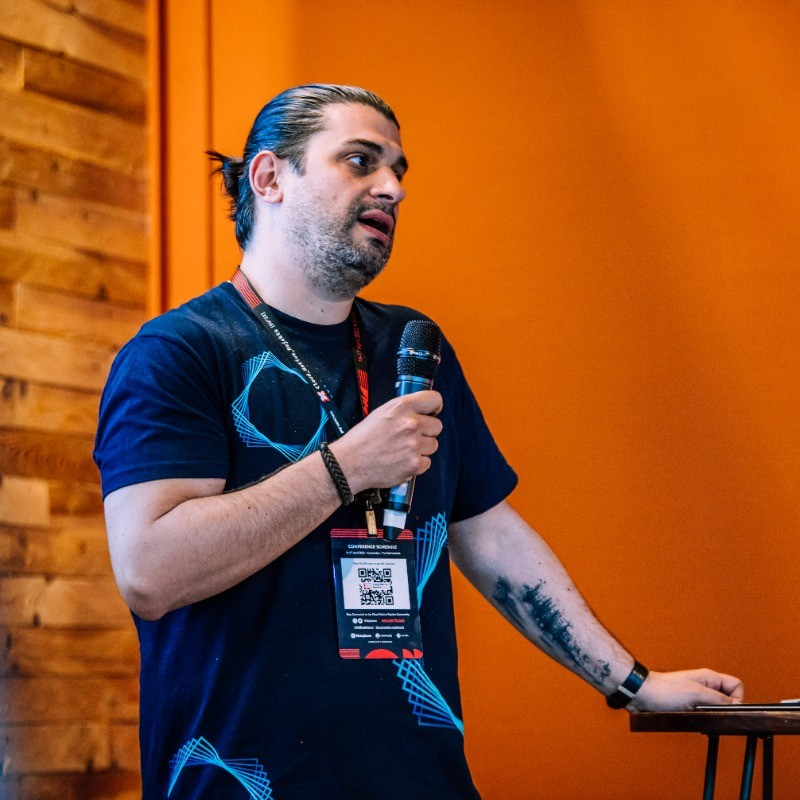
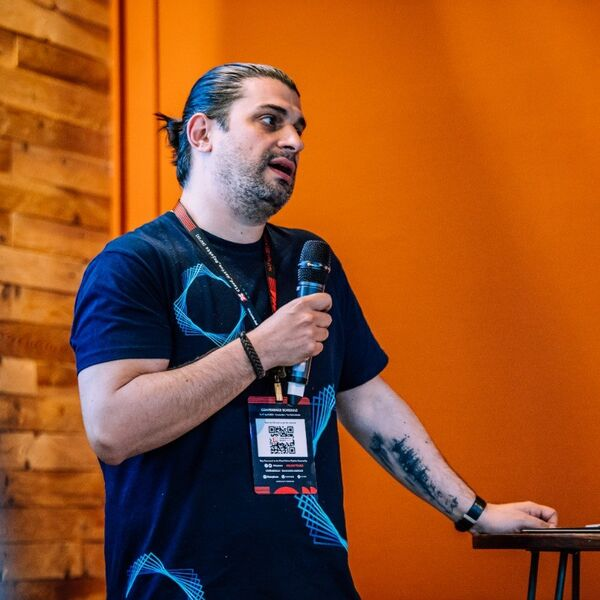
Optimize team photos too!

diff --git a/README.md b/README.md
@@ -37,6 +37,12 @@ mogrify -resize 600x600\> -strip -quality 80 static/speakers/*.jpg
 mogrify -resize 600x600\> -strip -quality 80 static/speakers/*.png
 mogrify -resize 600x600\> -strip -quality 80 static/speakers/*.jpeg
 mogrify -resize 600x600\> -strip -quality 80 static/speakers/*.webp
+
+# same story for team directory
+mogrify -resize 600x600\> -strip -quality 80 static/team/*.jpg
+mogrify -resize 600x600\> -strip -quality 80 static/team/*.png
+mogrify -resize 600x600\> -strip -quality 80 static/team/*.jpeg
+mogrify -resize 600x600\> -strip -quality 80 static/team/*.webp
 ```
 
 To re-compress PNG images, we use `pngquant`. You can install it using `brew install pngquant` on macOS.
@@ -44,6 +50,8 @@ To re-compress PNG images, we use `pngquant`. You can install it using `brew ins
 ```bash
 # Optimize all PNG images in the speakers directory
 pngquant --force --ext .png static/speakers/*.png
+# Same story for team directory
+pngquant --force --ext .png static/team/*.png
 ```
 
 
